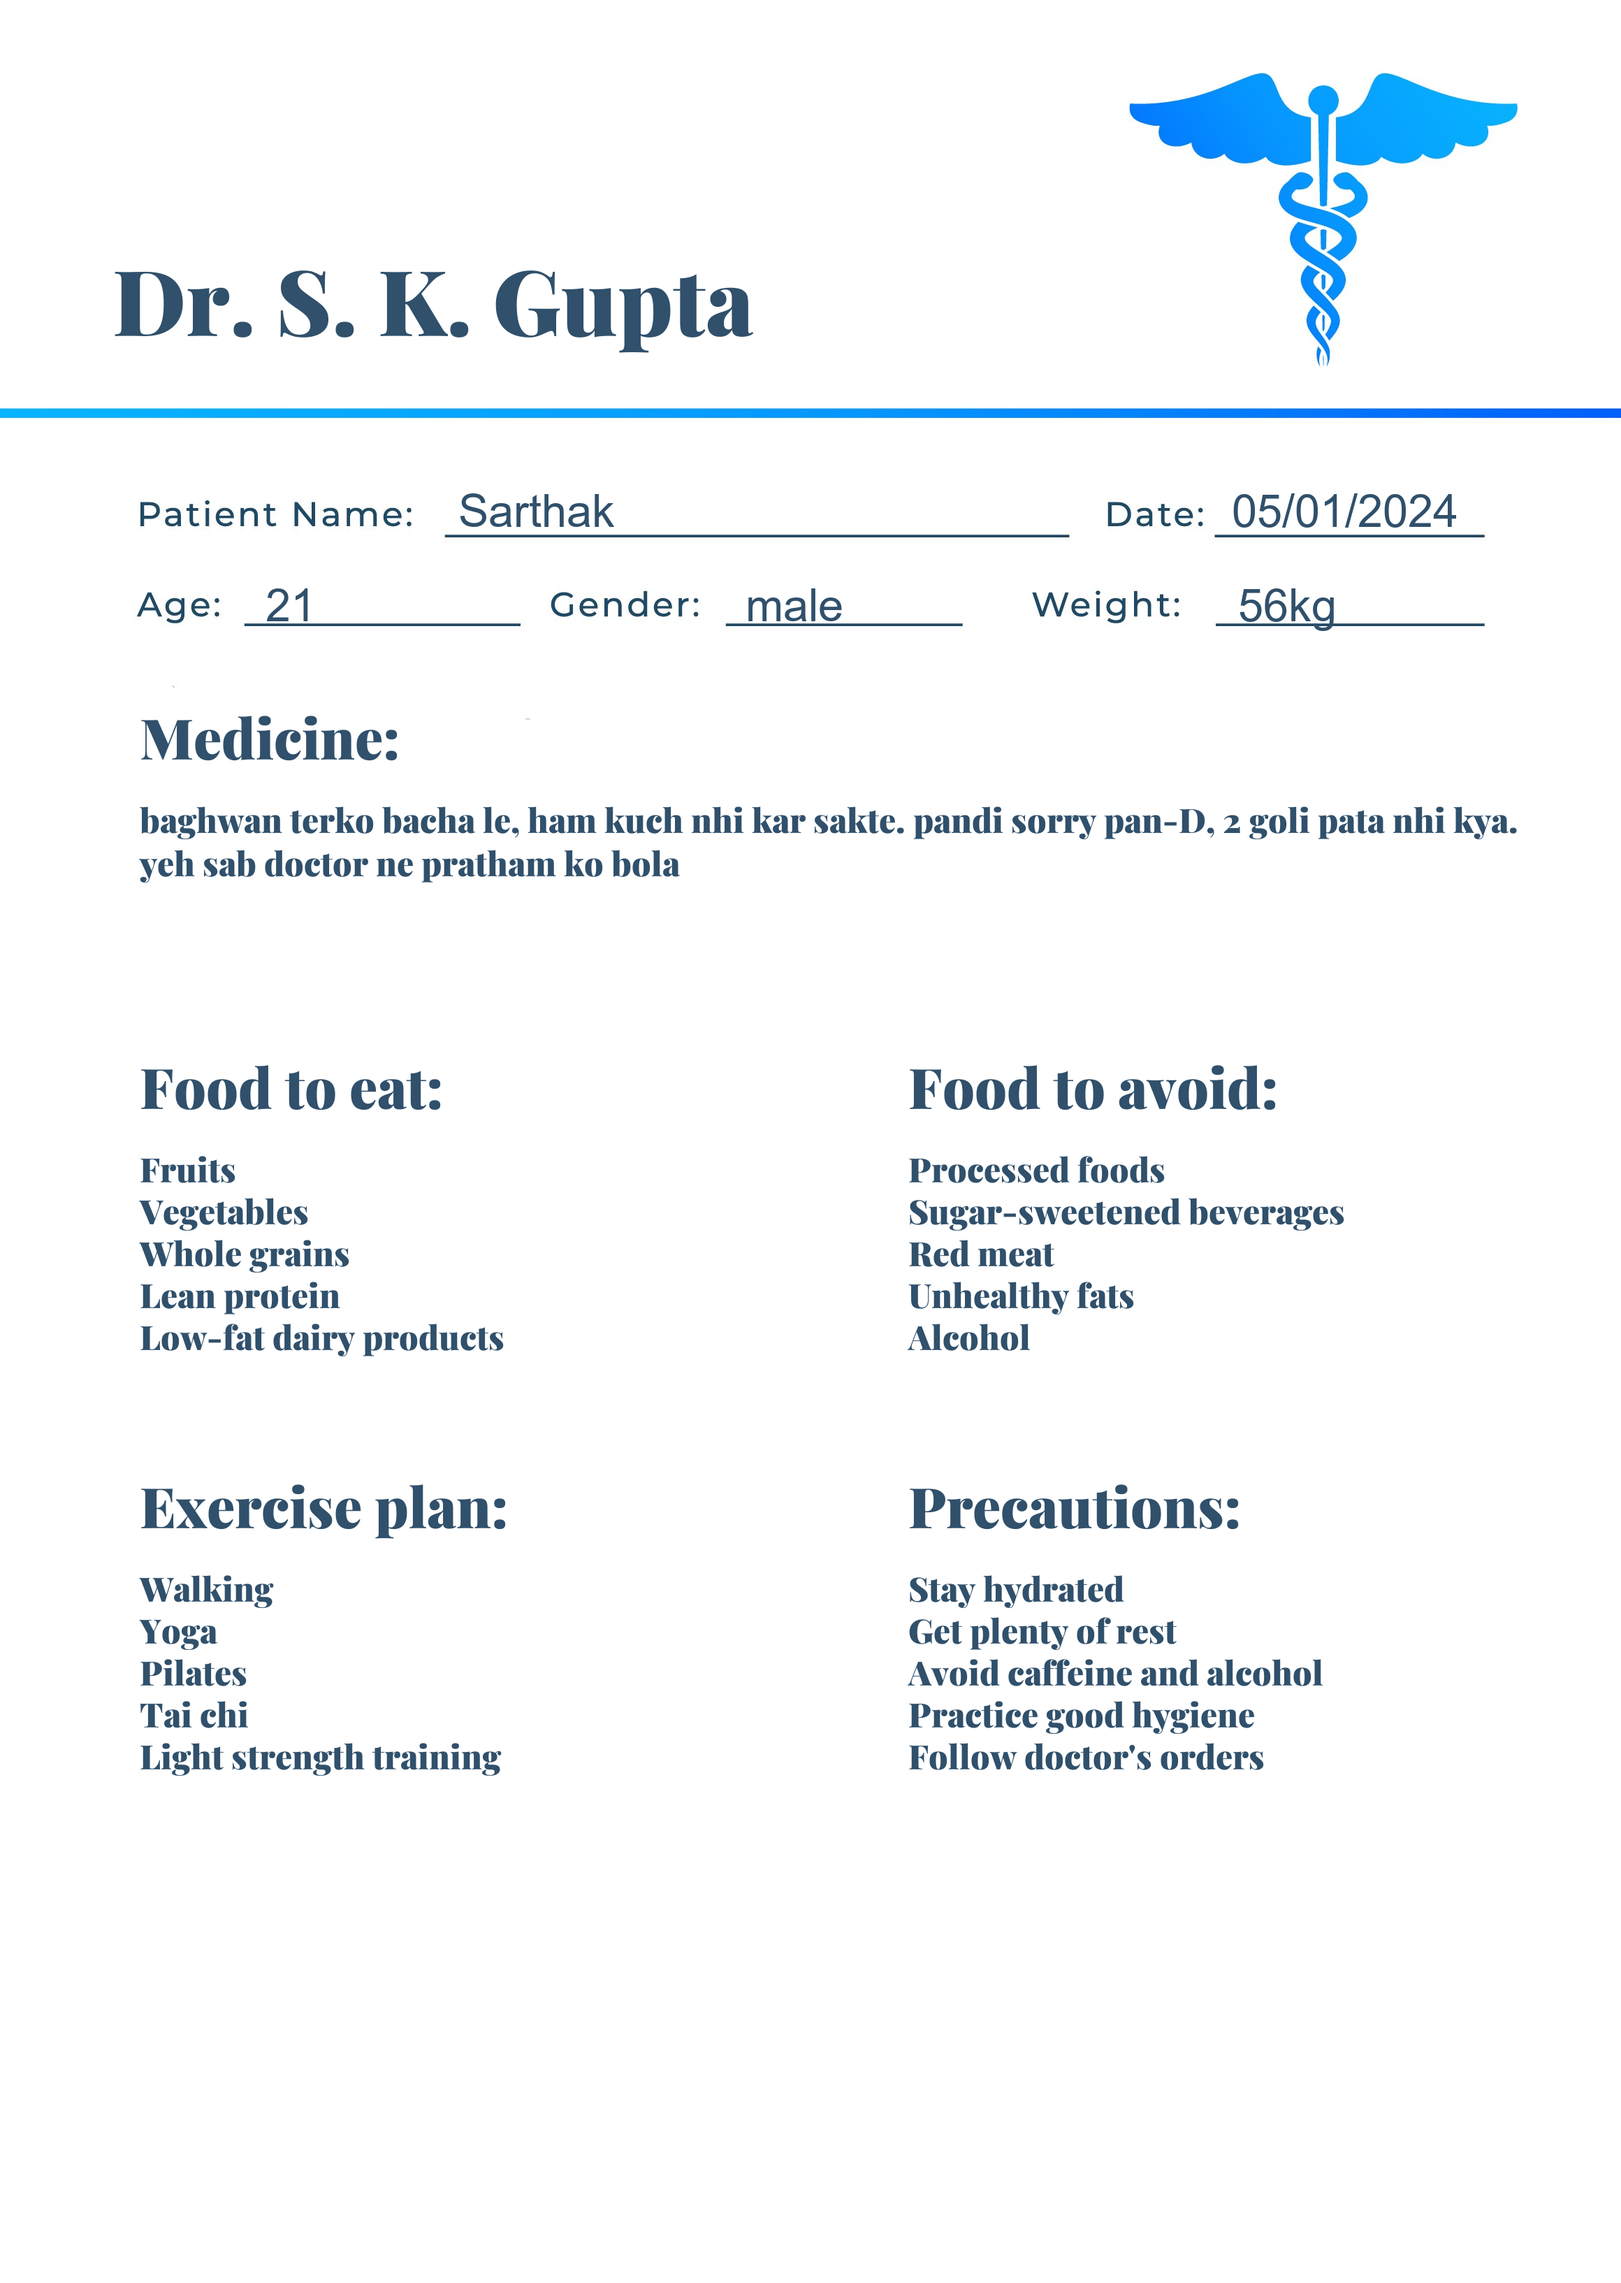
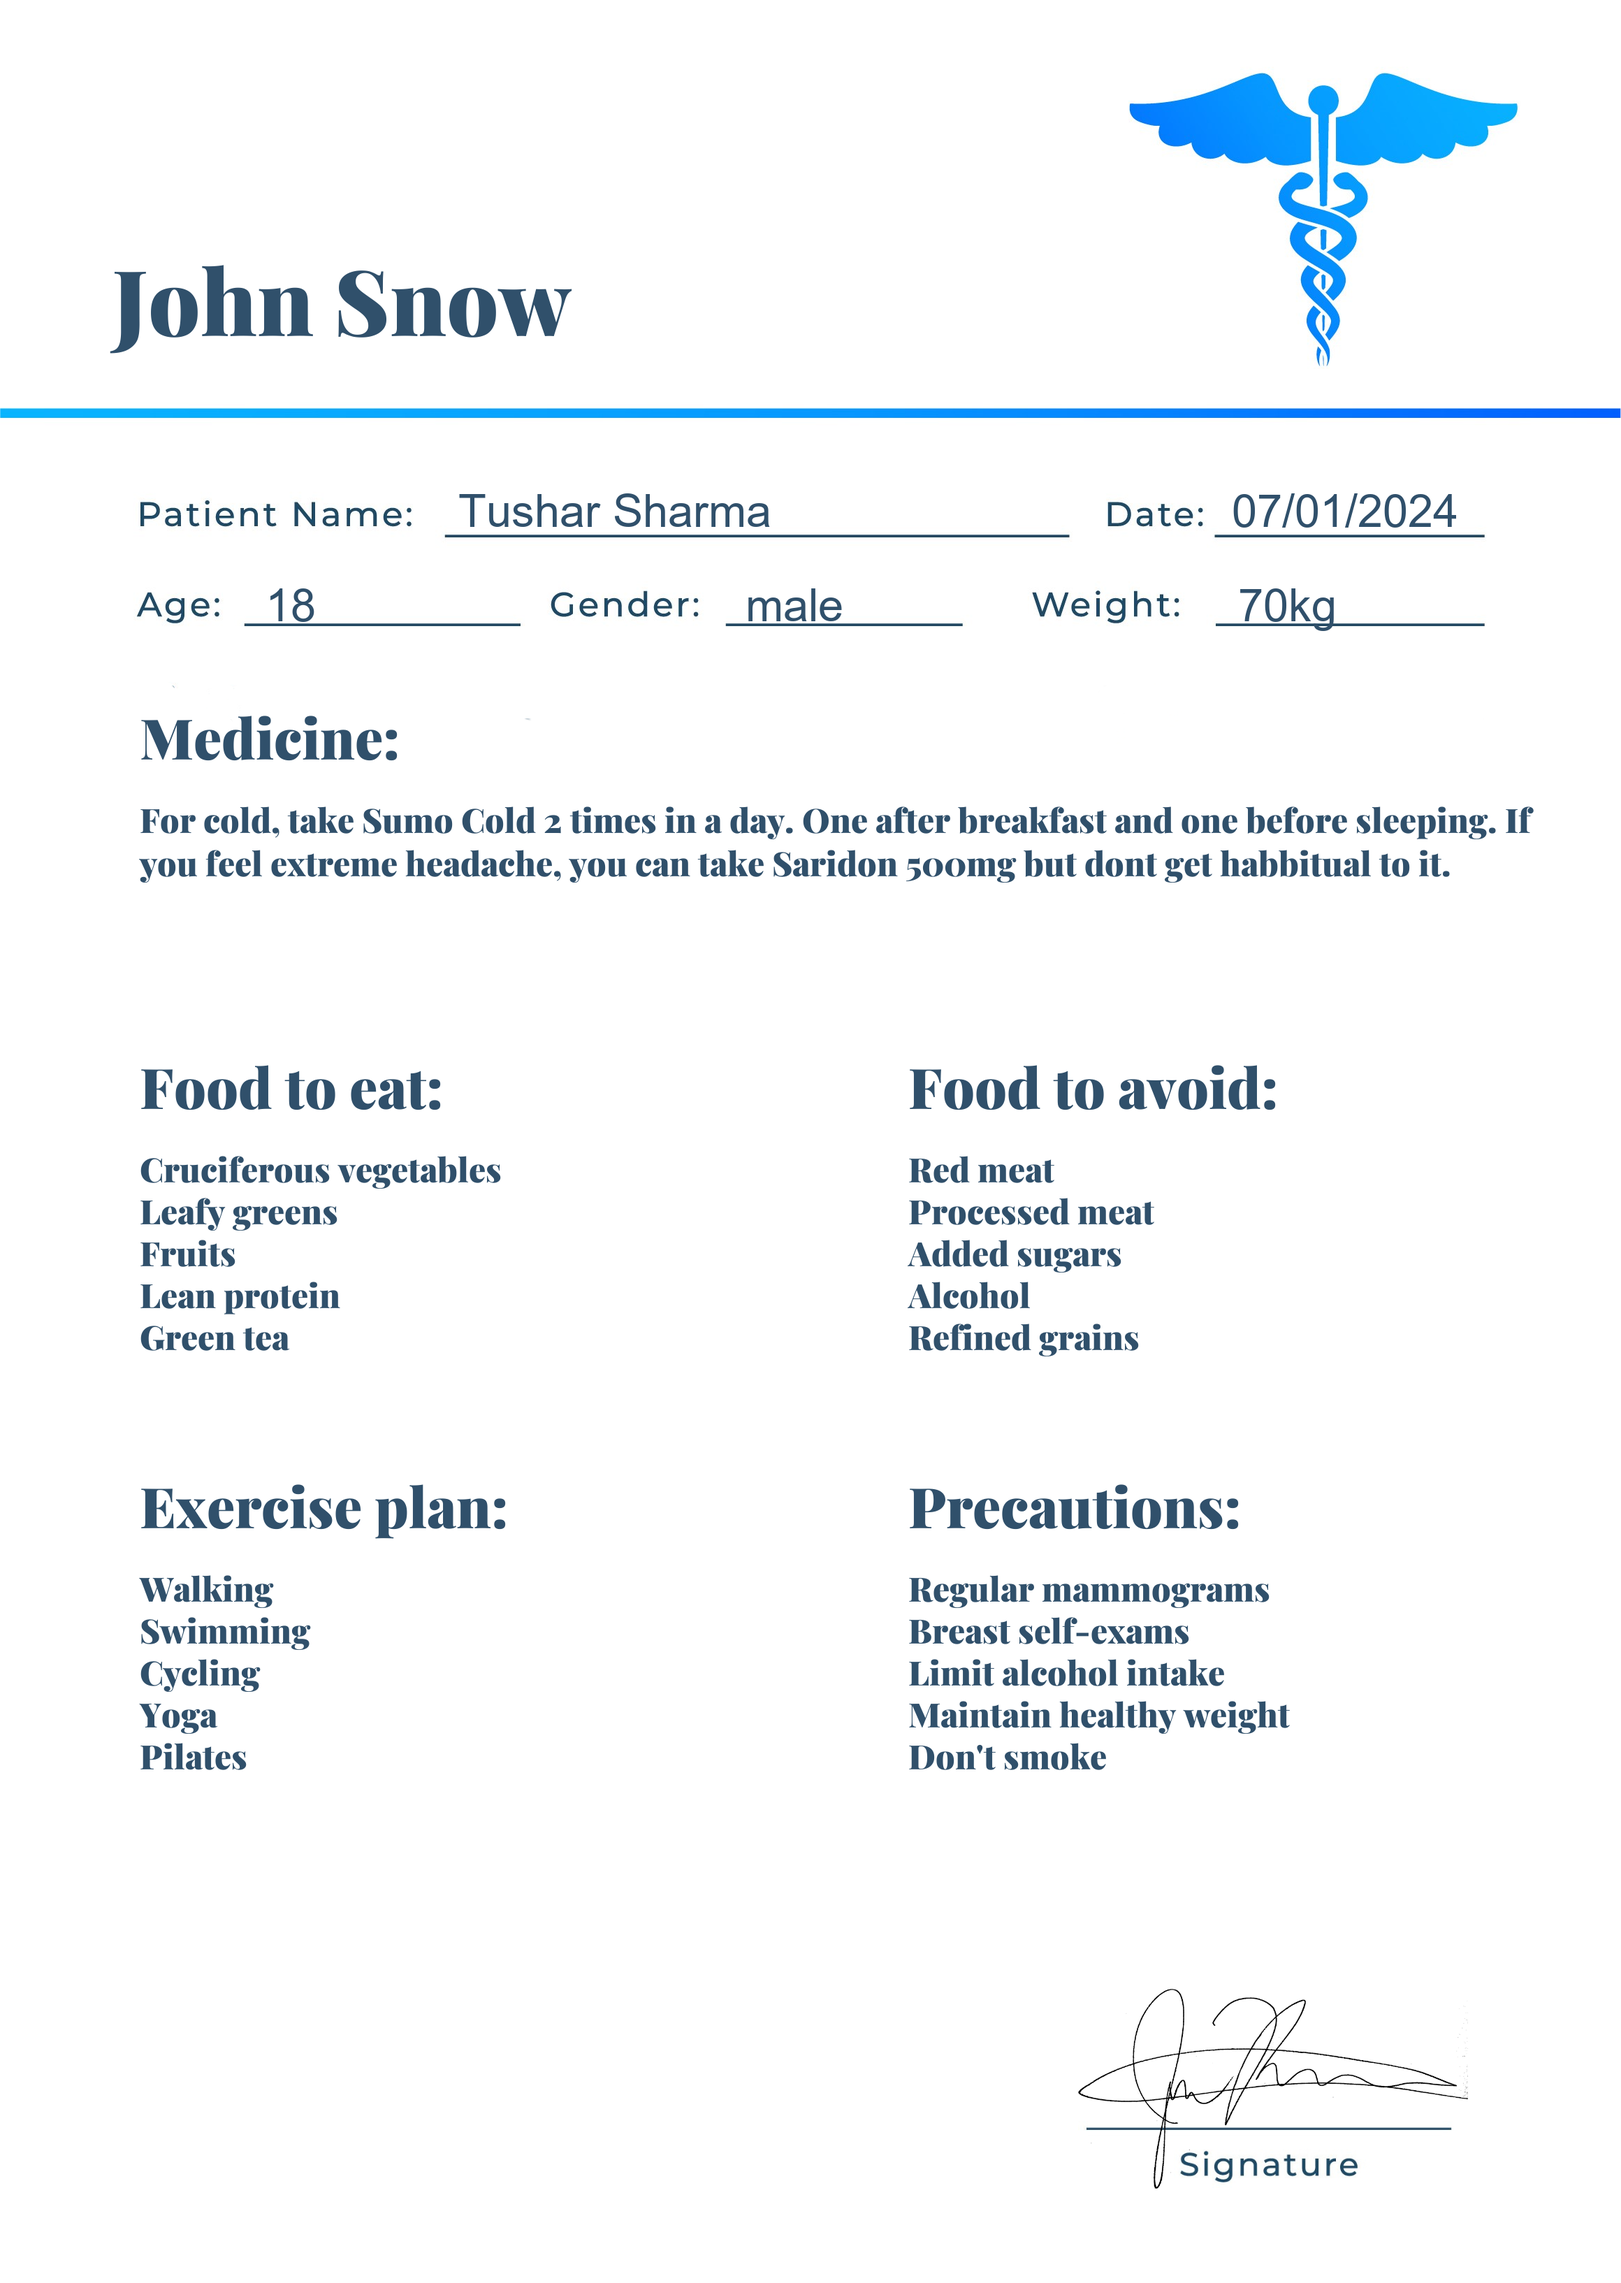
report summarization dev

diff --git a/main.py b/main.py
@@ -1,4 +1,5 @@
 import os
+import time
 import json
 import shutil
 import datetime
@@ -10,7 +11,7 @@ from tensorflow.keras.models import load_model
 from tensorflow.keras.preprocessing import image
 from fastapi.middleware.cors import CORSMiddleware
 from tensorflow.keras.applications.densenet import preprocess_input
-from fastapi import FastAPI, Request, Body, UploadFile, File, APIRouter
+from fastapi import FastAPI, Request, Body, UploadFile, File, APIRouter, Depends, HTTPException
 from fastapi.responses import FileResponse
 from tensorflow.keras.applications.vgg16 import preprocess_input as preprocess_input_mri
 
@@ -23,6 +24,10 @@ from utils.helper import *
 from models.ddig import *
 from utils.gpt import *
 
+#Rate Limit
+from starlette.requests import Request as reqq
+from starlette.status import HTTP_429_TOO_MANY_REQUESTS
+
 app = FastAPI()
 router = APIRouter()
 origins = ["*"]
@@ -34,6 +39,9 @@ app.add_middleware(
     allow_methods=["*"],
     allow_headers=["*"],
 )
+
+# Store the last request time for each client
+last_request_time = {}
 
 # Load the model
 ctmodel_path = 'models/assets/ct-scan/chest_CT_SCAN-DenseNet201.hdf5'
@@ -112,9 +120,22 @@ async def predict_mri(request: ScanRequest):
     return response
 
 @app.post("/diff-diagnosis")
-async def gemi(request:DifferentialDiagnosisRequest):
-    demographics = request.demographics
-    symptoms = request.symptoms
+async def gemi(diagnosis_request: DifferentialDiagnosisRequest):
+# async def gemi(request: reqq, diagnosis_request: DifferentialDiagnosisRequest):
+    # client = request.client.host
+    # print(client)
+    # current_time = time.time()
+
+    # if client in last_request_time:
+    #     if current_time - last_request_time[client] < 60:
+    #         raise HTTPException(
+    #             status_code=HTTP_429_TOO_MANY_REQUESTS,
+    #             detail="Too Many Requests",
+    #         )
+
+    # last_request_time[client] = current_time
+    demographics = diagnosis_request.demographics
+    symptoms = diagnosis_request.symptoms
     chatbot_response = chatbot(demographics, symptoms)
     return chatbot_response 
 
@@ -123,13 +144,15 @@ async def generate_prescription_data(request:PrescriptionRequest):
     demographics = request.demographics
     disease = request.disease
     chatbot_response = prescription_data(demographics, disease)
+    type(chatbot_response)
+    chatbot_response['medicine'] = "For cold, take Sumo Cold 2 times in a day. One after breakfast and one before sleeping. If you feel extreme headache, you can take Saridon 500mg but dont get habbitual to it."
     # return PrescriptionResponse(response=chatbot_response)
     return chatbot_response
 
 
 @app.post("/generate-prescription")
 async def generate_prescription(request:PrescriptionReportRequest):
-    
+    print(request)
     img = Image.open('models/assets/template.png')
     I1 = ImageDraw.Draw(img)
     details_font = ImageFont.truetype("arial.ttf", 65)
@@ -142,7 +165,6 @@ async def generate_prescription(request:PrescriptionReportRequest):
     weight = request.weight
 
     doctor_name = request.doctor_name
-    medicine = request.medicine
 
     diet_plan = request.diet_plan
     exercise_plan = request.exercise_plan

diff --git a/test.py b/test.py
@@ -1,0 +1,43 @@
+from transformers import BartForConditionalGeneration, BartTokenizer
+
+model_name = 'facebook/bart-large-cnn'
+model = BartForConditionalGeneration.from_pretrained(model_name)
+tokenizer = BartTokenizer.from_pretrained(model_name)
+
+clinical_text = '''
+    Patient: John Doe
+    Age: 45
+    Date: 2023-09-01
+
+    Chief Complaint:
+    The patient presents with chest pain and shortness of breath.
+
+    History of Present Illness:
+    Mr. Doe has a history of hypertension and smoking. He describes the chest pain as a
+    squeezing sensation in the center of the chest. The pain has been persistent for the
+    past two hours and is radiating to the left arm.
+
+    Physical Examination:
+    On examination, the patient's blood pressure is elevated at 160/95 mm Hg. He appears
+    diaphoretic and in distress. Auscultation reveals crackles in the lungs.
+
+    Assessment:
+    The patient is at risk of an acute myocardial infarction (heart attack) due to his
+    symptoms, history, and physical findings.
+
+    Plan:
+    Mr. Doe will be admitted for further evaluation and treatment, including cardiac
+    monitoring, laboratory tests, and possible intervention.
+
+    Follow-up:
+    The patient's family has been informed, and further updates will be provided
+    as necessary.
+'''
+
+inputs = tokenizer.encode("summarize: " + clinical_text, return_tensors="pt", max_length=1024, truncation=True)
+summary_ids = model.generate(inputs, max_length=150, min_length=30, length_penalty=2.0, num_beams=4, early_stopping=True)
+
+print([tokenizer.decode(g, skip_special_tokens=True, clean_up_tokenization_spaces=False) for g in summary_ids])
+
+summary = tokenizer.decode(summary_ids[0], skip_special_tokens=True)
+print(summary)

diff --git a/utils/prescription.py b/utils/prescription.py
@@ -33,7 +33,7 @@ def prescription_data(demographics, disease):
     Strictly, the response should not contain anything else than the JSON object. It should not contain quotes or declaration of the json.
 
     % OUTPUT EXAMPLE
-    diet_plan is a json containing 3 keys: diet plan, exercise plan and precautions. deit plan will be a json containing 2 keys: food_to_eat and food_to_avoid. exercise plan will be a list of exercises. precautions will be a list of precautions.
+    json containing 3 keys: diet plan, exercise plan and precautions. deit plan will be a json containing 2 keys: food_to_eat and food_to_avoid. exercise plan will be a list of exercises. precautions will be a list of precautions.
 """
     messages = system_prompt.format(demographics, disease)
     chat = model.start_chat(history=[])
